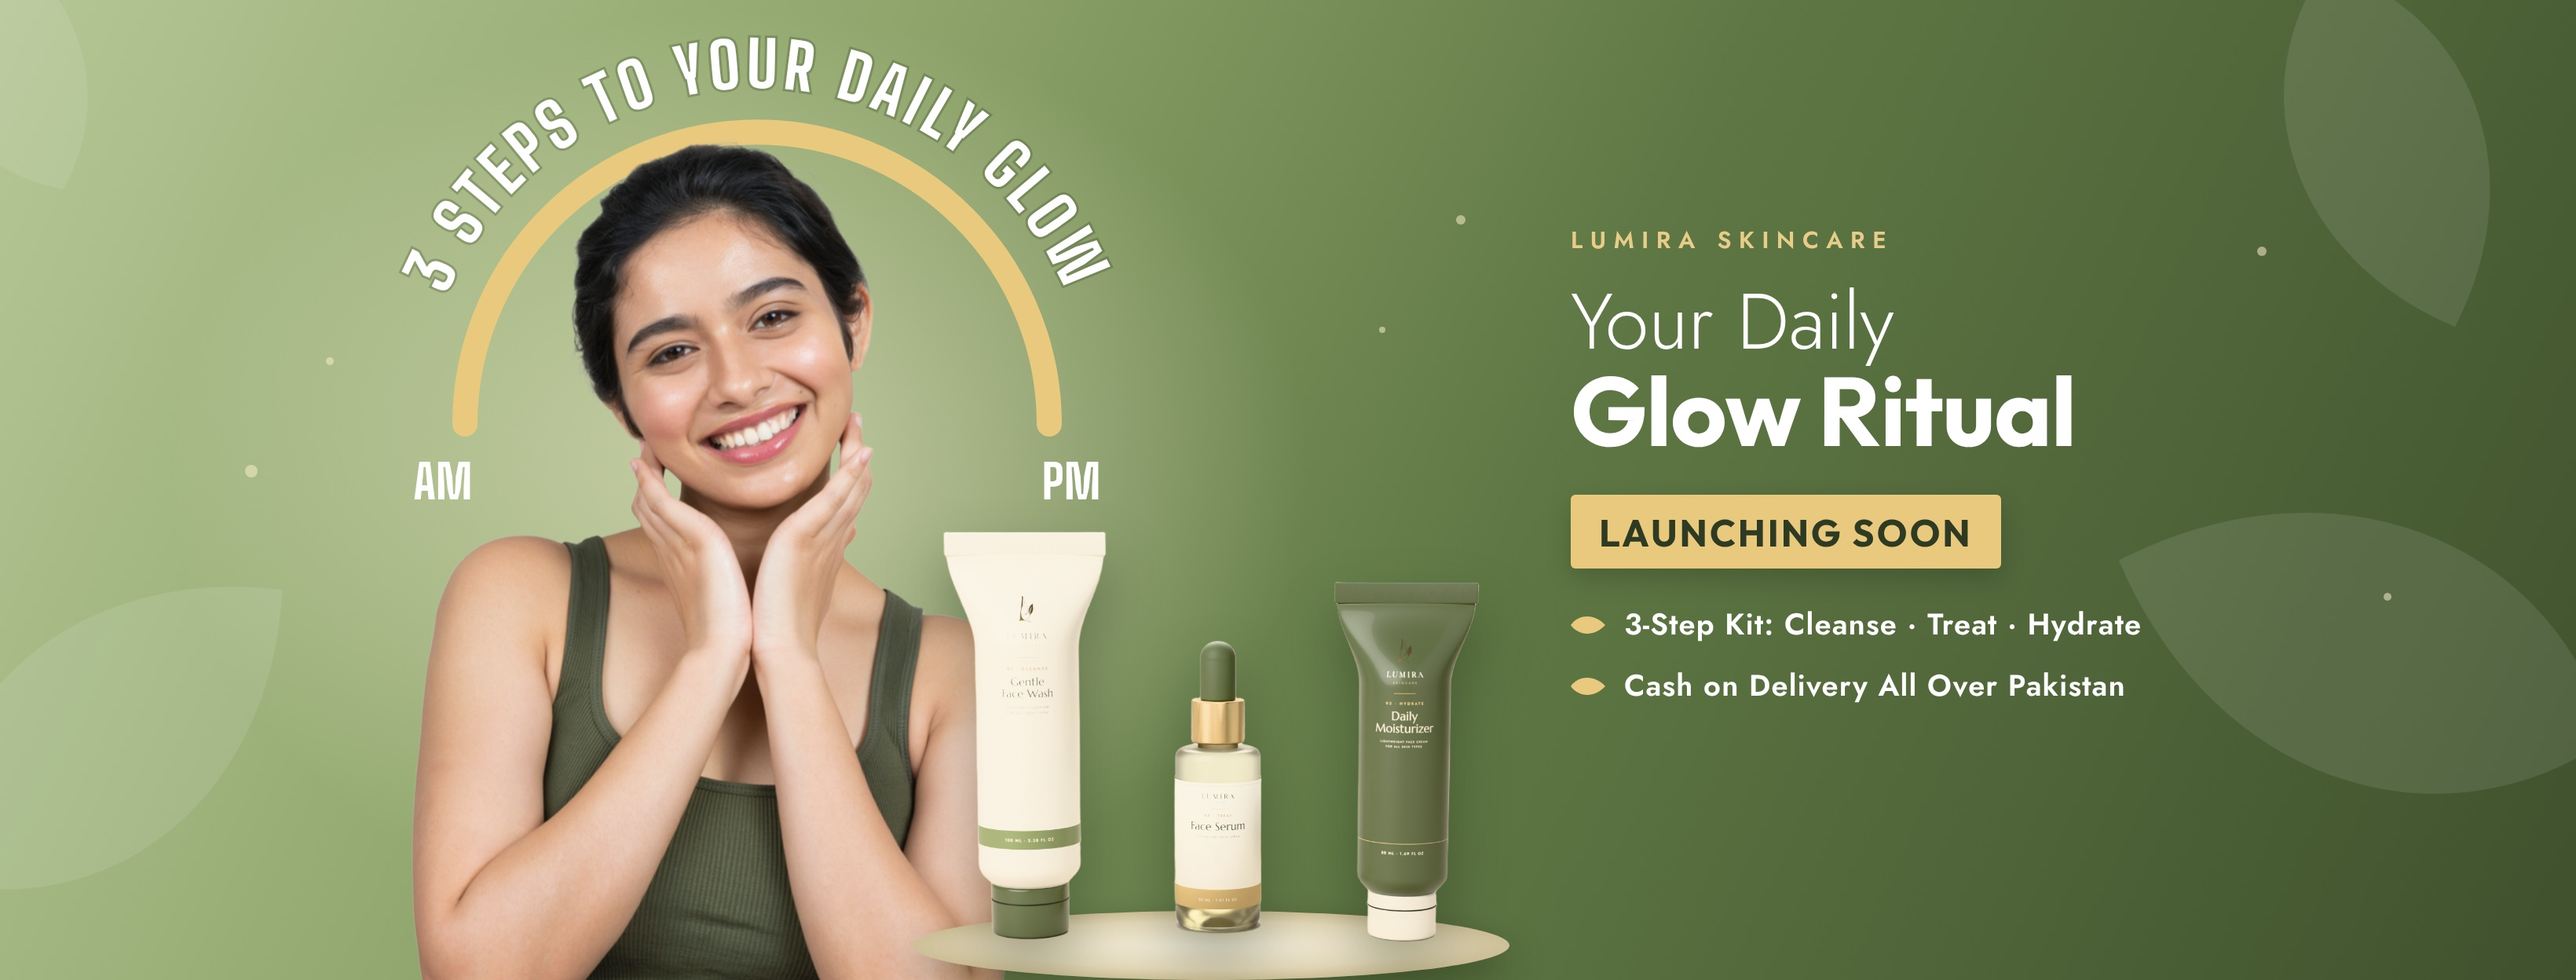
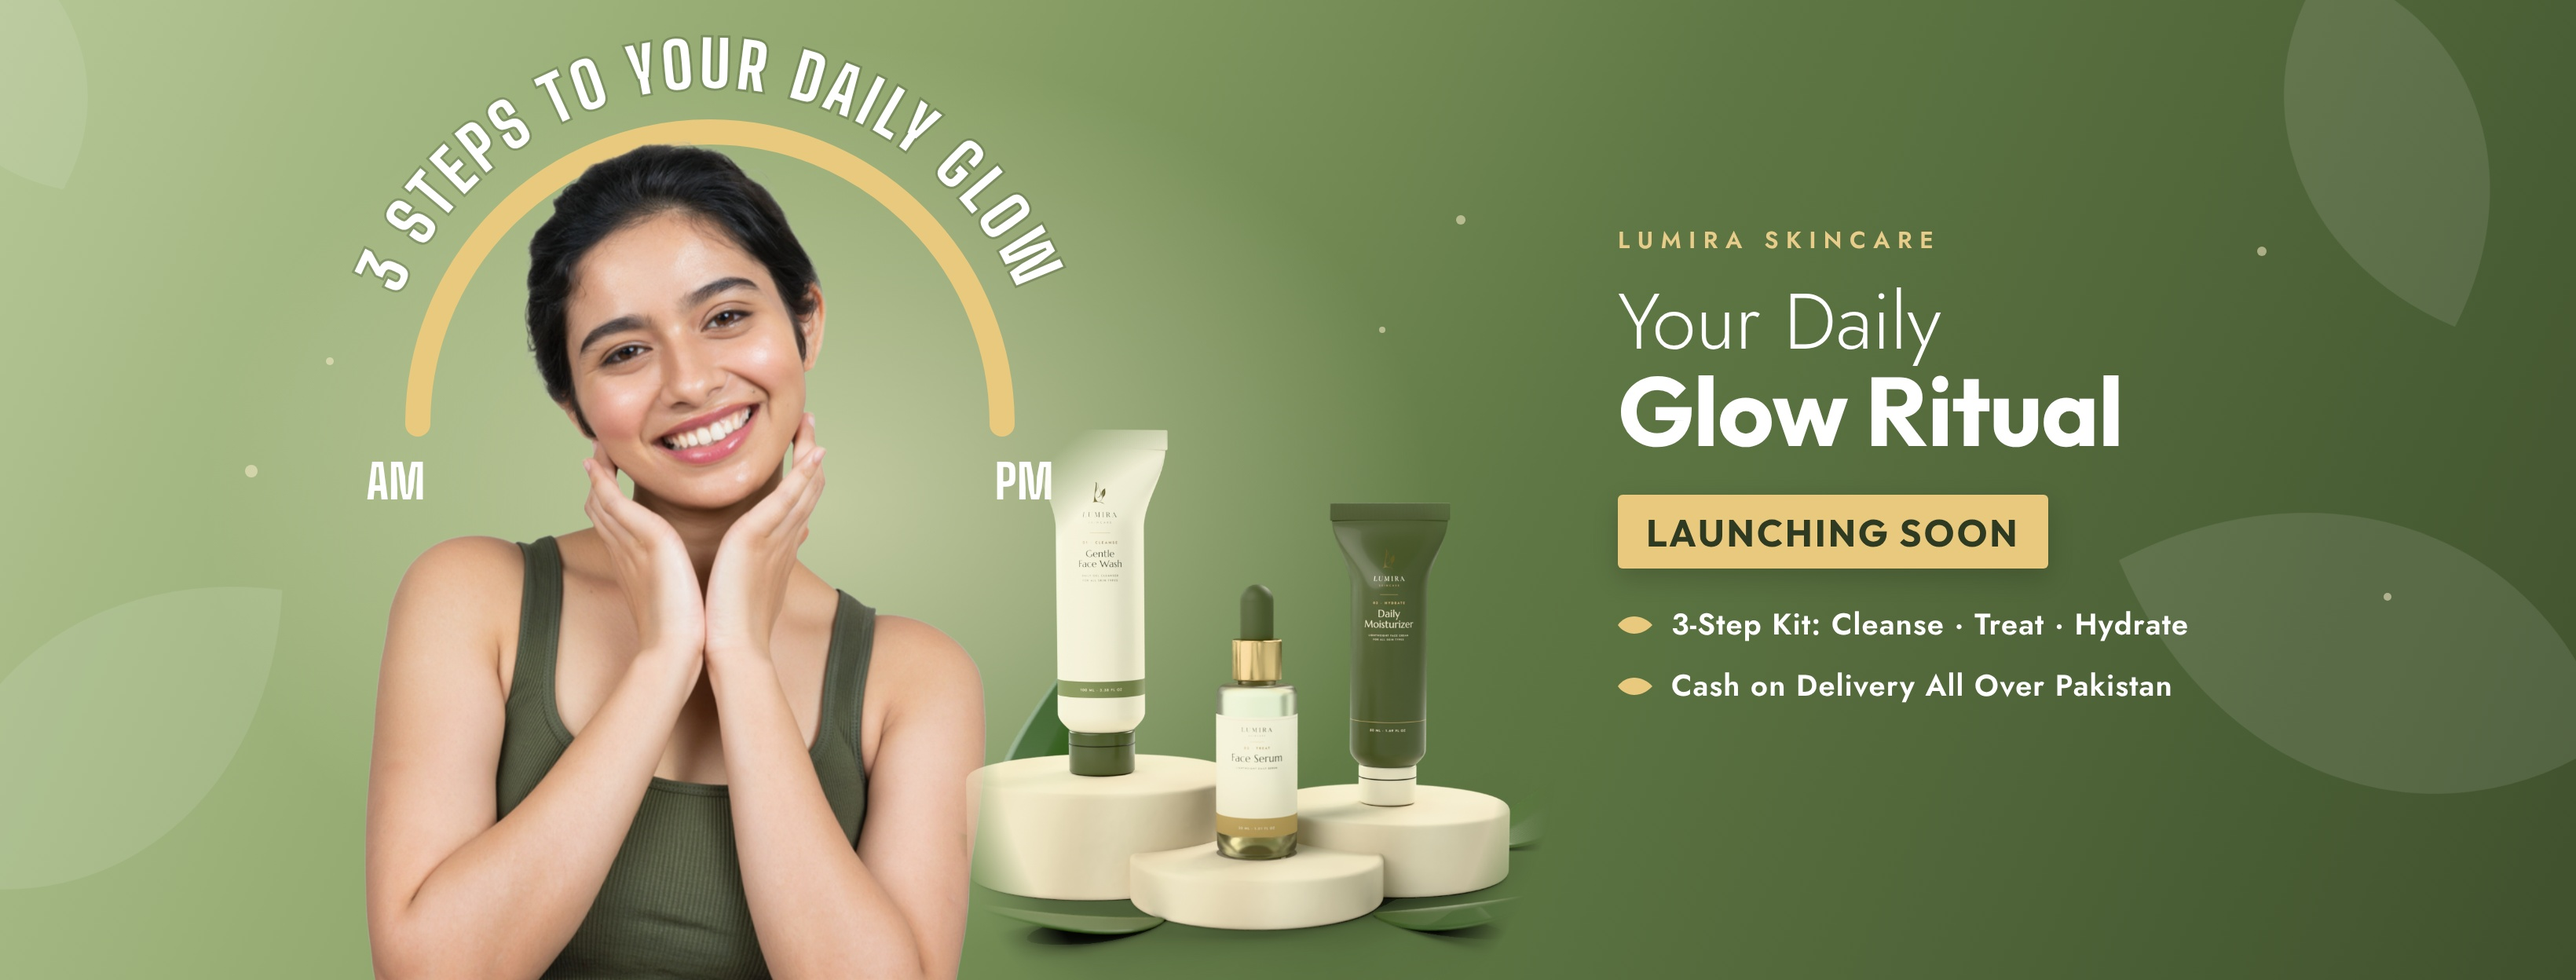
Lumira FB cover: real 3D podium scene with contact shadows and leaves
Claude-Session: https://claude.ai/code/session_01LcLnYNDzurLSB8XLdGSFaY

diff --git a/brand/lumira-beauty/social/fb-cover/source/cover.html b/brand/lumira-beauty/social/fb-cover/source/cover.html
@@ -3,13 +3,13 @@
 @font-face{font-family:BigS;src:url(BigShoulders-Bold.ttf)}
 html,body{margin:0}
 #c{position:relative;width:1640px;height:624px;overflow:hidden;
- background:radial-gradient(520px 420px at 470px 300px,rgba(246,240,214,.55),rgba(246,240,214,0) 70%),
+ background:radial-gradient(560px 420px at 520px 320px,rgba(246,240,214,.55),rgba(246,240,214,0) 70%),
  linear-gradient(115deg,#B5C796 0%,#8FA56C 30%,#5F7744 58%,#3F512D 100%);font-family:Jost}
 .abs{position:absolute}
-#model{left:262px;top:88px;height:556px}
-#prod{left:600px;top:338px;height:262px;filter:drop-shadow(0 18px 18px rgba(30,40,20,.35))}
+#model{left:232px;top:88px;height:556px}
+#prod{left:600px;top:262px;height:372px}
 #podium{left:581px;top:580px;width:380px;height:44px;border-radius:50%;background:radial-gradient(closest-side,#F4EEDC,#E2D7B8 70%,#CDBF97);box-shadow:0 10px 24px rgba(20,30,10,.35)}
-#txt{left:1000px;top:142px;width:380px;color:#fff}
+#txt{left:1030px;top:142px;width:380px;color:#fff}
 .lab{font-weight:600;letter-spacing:.32em;font-size:15px;color:#E8CC8A}
 .h1{font-weight:300;font-size:50px;line-height:1;margin-top:16px}
 .h2{font-family:Outfit;font-weight:700;font-size:62px;line-height:1.02;letter-spacing:-.01em}
@@ -19,7 +19,7 @@ li{display:flex;align-items:center;gap:12px;font-weight:600;font-size:19px;lette
 li svg{flex:none}
 </style></head><body><div id="c">
 <svg class="abs" width="1640" height="624" style="left:0;top:0">
- <defs><path id="arc" d="M 296 270 A 186 186 0 0 1 668 270"/><path id="arcT" d="M 268 270 A 214 214 0 0 1 696 270"/>
+ <defs><path id="arc" d="M 266 270 A 186 186 0 0 1 638 270"/><path id="arcT" d="M 238 270 A 214 214 0 0 1 666 270"/>
  <g id="leaf"><path d="M0 0 C 50 -70 150 -75 220 0 C 150 75 50 70 0 0 Z"/><path d="M0 0 L 215 0" stroke-width="4" fill="none"/></g></defs>
  <g fill="#fff" stroke="#fff" opacity=".10">
   <use href="#leaf" transform="translate(-40 560) rotate(-40) scale(1.3)"/>
@@ -31,12 +31,11 @@ li svg{flex:none}
  <use href="#arc" fill="none" stroke="#E8C97E" stroke-width="16" stroke-linecap="round"/>
  <text font-family="BigS" font-size="40" letter-spacing="3" fill="#fff" style="paint-order:stroke" stroke="rgba(40,55,25,.25)" stroke-width="3">
   <textPath href="#arcT" startOffset="50%" text-anchor="middle">3 STEPS TO YOUR DAILY GLOW</textPath></text>
- <text x="282" y="318" font-family="BigS" font-size="30" fill="#fff" text-anchor="middle">AM</text>
- <text x="682" y="318" font-family="BigS" font-size="30" fill="#fff" text-anchor="middle">PM</text>
+ <text x="252" y="318" font-family="BigS" font-size="30" fill="#fff" text-anchor="middle">AM</text>
+ <text x="652" y="318" font-family="BigS" font-size="30" fill="#fff" text-anchor="middle">PM</text>
 </svg>
 <img id="model" class="abs" src="model_final.png">
-<div id="podium" class="abs"></div>
-<img id="prod" class="abs" src="products_final.png">
+<img id="prod" class="abs" src="stage_crop.png">
 <div id="txt" class="abs">
  <div class="lab">LUMIRA SKINCARE</div>
  <div class="h1">Your Daily</div>
